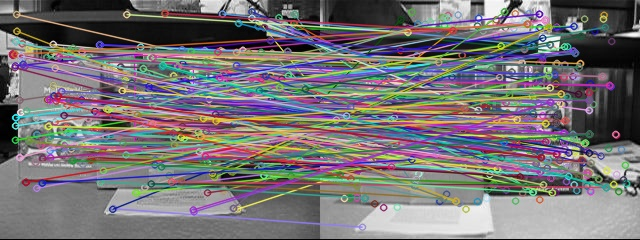
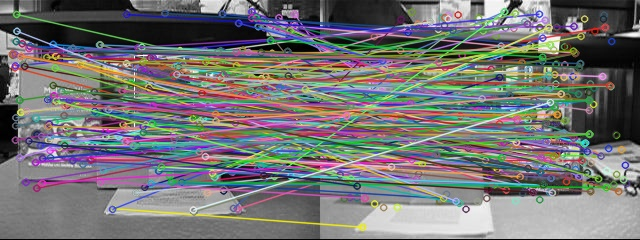
changes

diff --git a/pro.cpp b/pro.cpp
@@ -22,8 +22,8 @@ int main(int argc,char** argv){
 	Mat img_2;
 
 	// -- step 3 - load the images
-	img_1 = imread("Fish/img/0001.jpg");
-	img_2 = imread("Fish/img/0199.jpg");
+	img_1 = imread("Fish/img/0001.jpg",IMREAD_GRAYSCALE);
+	img_2 = imread("Fish/img/0199.jpg",IMREAD_GRAYSCALE);
 
 	if((! img_1.data) || (! img_2.data)){
 		std::cout << "image not found" << std::endl;
@@ -51,7 +51,7 @@ int main(int argc,char** argv){
 
 	vector_to_csv(keypoints_1,"features0001.csv");
 	vector_to_csv(keypoints_2,"features0199.csv");
-
+	vector_to_csv(keypoints_1_crop,"features0001_crop.csv");
 	//-- step 6 - create feature vector
 
 	Ptr<SURF>  extractor = SURF::create();
